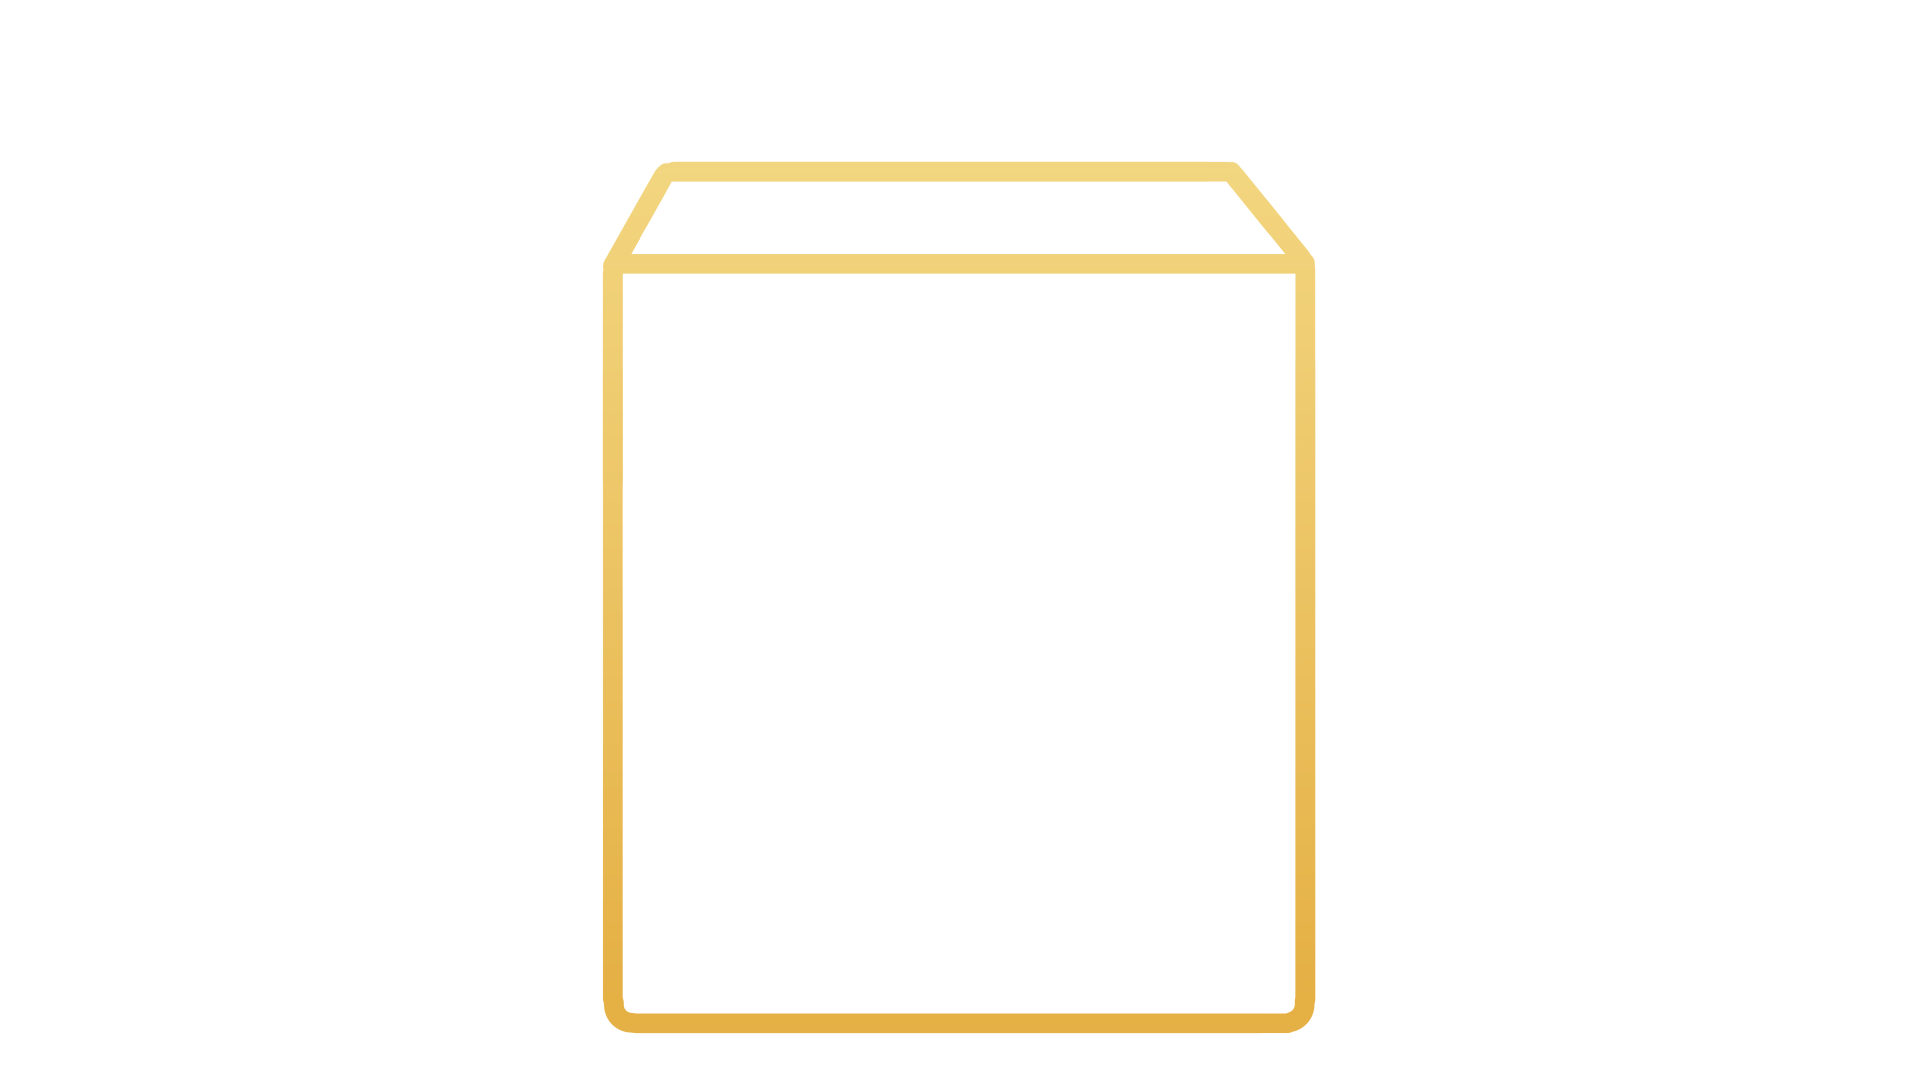
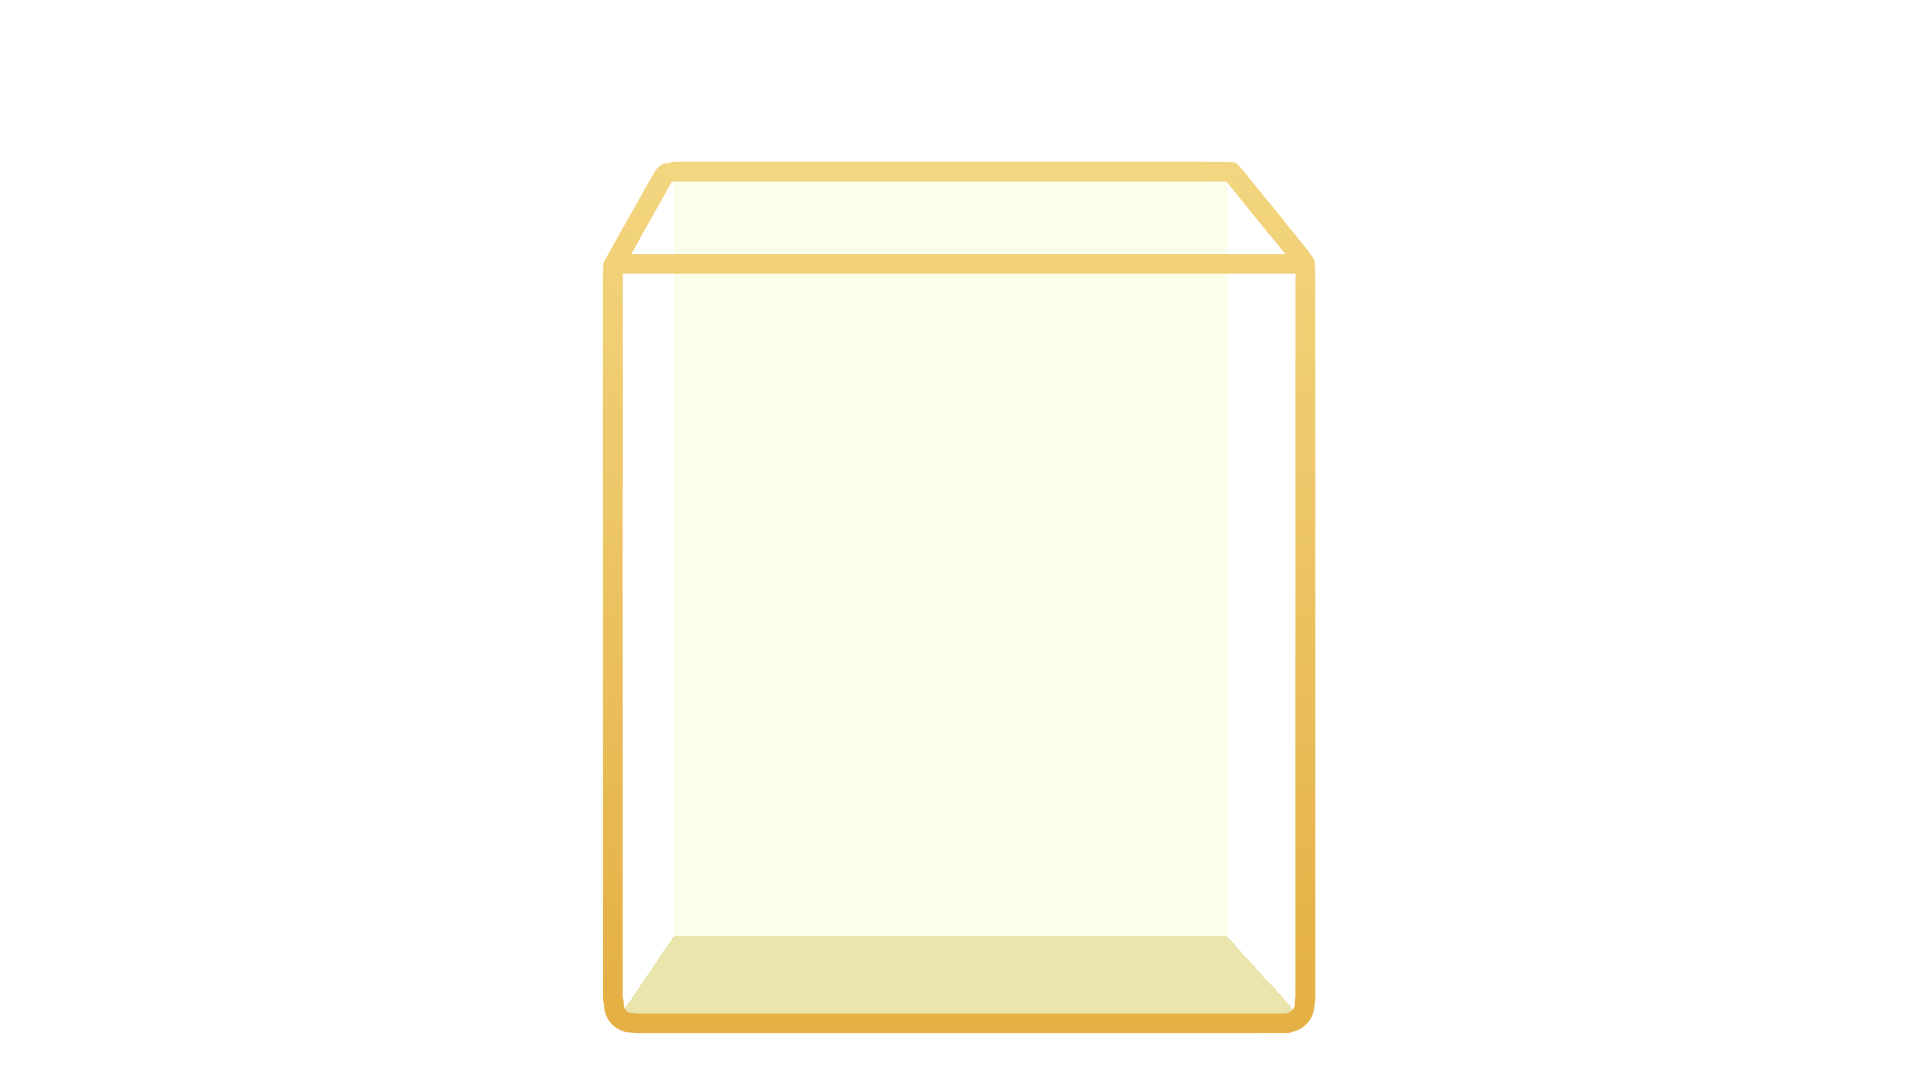
Change the BOX image

Changed region(s): [[0.3125, 0.8556, 0.6875, 0.9472]]

diff --git a/GAME09/CONTAINER.cpp b/GAME09/CONTAINER.cpp
@@ -186,6 +186,7 @@ namespace GAME09
 		Data.resultBackButton.selectedImg = loadImage("..\\main\\assets\\game09\\back_button.png");
 		Data.resultBackButton.notSelectedImg = loadImage("..\\main\\assets\\game09\\back_button_gray.png");
 		Data.box.img = loadImage("..\\main\\assets\\game09\\box.png");
+		Data.box.frontImg = loadImage("..\\main\\assets\\game09\\box_front.png");
 		for (int i = 0; i < FRUITS::NUM_FRUITS_KINDS; i++) {
 			std::string path = "..\\main\\assets\\game09\\";
 			path += std::to_string(i);

diff --git a/GAME09/BOX.h b/GAME09/BOX.h
@@ -10,6 +10,7 @@ namespace GAME09
     public:
         struct DATA {
             int img;
+            int frontImg;
             VECTOR2 pos;
             float imgSize;
             float left;
@@ -26,6 +27,7 @@ namespace GAME09
         void init();
         void update();
         void draw();
+        void drawFront();
 
         float left();
         float right();

diff --git a/GAME09/BOX.cpp b/GAME09/BOX.cpp
@@ -38,6 +38,11 @@ namespace GAME09
 		//line(0, up(), width, up());
 	}
 
+	void BOX::drawFront() {
+		rectMode(CENTER);
+		image(Box.frontImg, Box.pos.x, Box.pos.y, 0, Box.imgSize);
+	}
+
 	float BOX::left(){
 		return Box.left + Box.pos.x;
 	}

diff --git a/GAME09/STAGE.cpp b/GAME09/STAGE.cpp
@@ -64,6 +64,7 @@ namespace GAME09
 		game()->box()->draw();
 		game()->cloud()->draw();
 		game()->physics()->draw();
+		game()->box()->drawFront();
 		game()->next()->draw();
 		game()->score()->draw();
 	}
